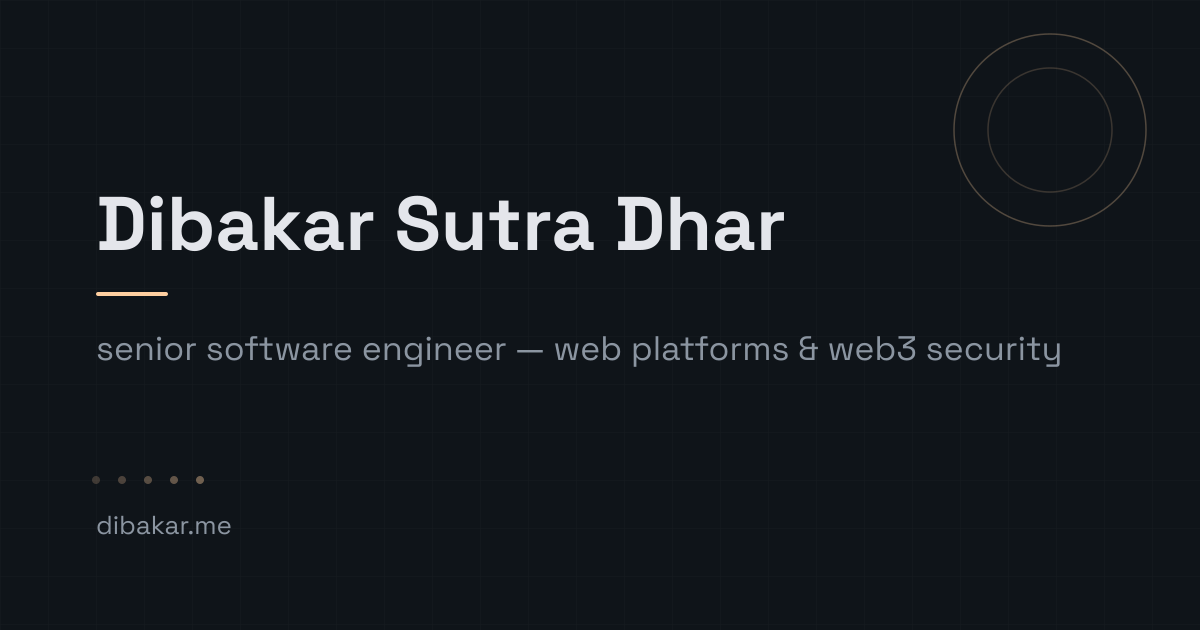
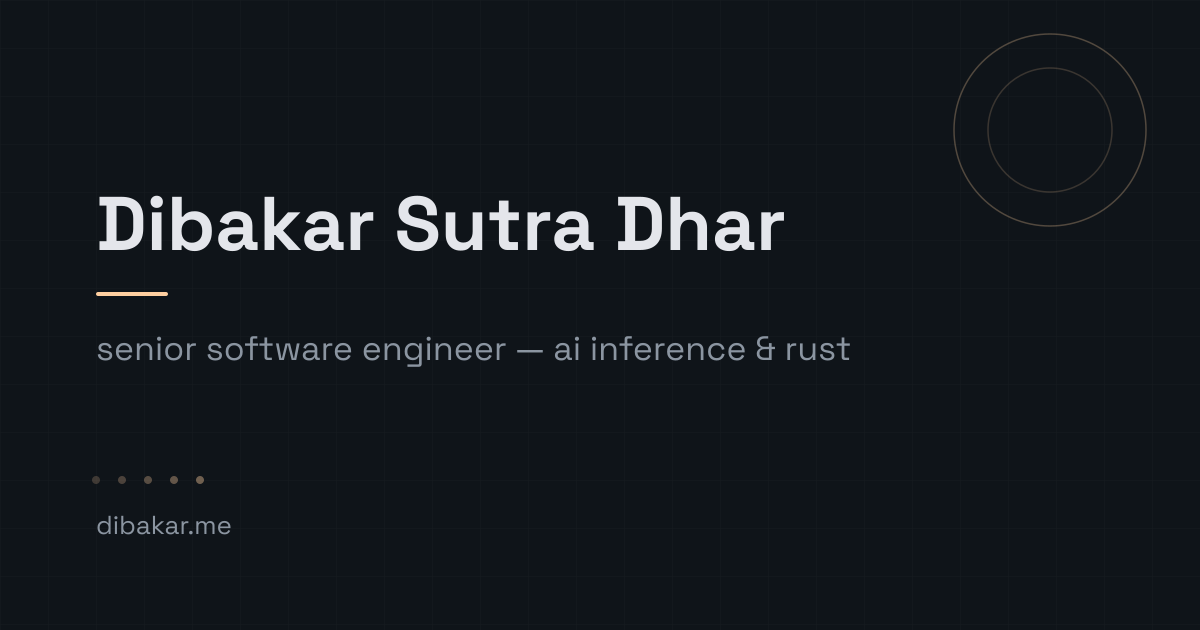
feat: update metadata and artwork to reflect focus on AI inference and distributed systems

Changed region(s): [[0.4625, 0.5429, 0.8942, 0.573]]

diff --git a/app/layout.tsx b/app/layout.tsx
@@ -9,7 +9,7 @@ export const metadata: Metadata = {
 		template: `%s | ${SITE_TITLE}`
 	},
 	description:
-		'Senior software engineer building web platforms and securing web3 systems. Writing about software engineering, web3, and web development.',
+		'Senior software engineer building ai inference and distributed systems. Writing about software engineering, web3, and ai engineering.',
 	alternates: { canonical: '/' },
 	icons: {
 		icon: [
@@ -24,7 +24,7 @@ export const metadata: Metadata = {
 		url: SITE_URL,
 		title: `${SITE_TITLE} — Senior Software Engineer`,
 		description:
-			'Senior software engineer building web platforms and securing web3 systems.',
+			'Senior software engineer building ai inference and distributed systems. Writing about software engineering, web3, and ai engineering.',
 		images: [{ url: '/images/og-card.png', width: 1200, height: 630 }]
 	},
 	twitter: { card: 'summary_large_image' }

diff --git a/app/about/page.tsx b/app/about/page.tsx
@@ -8,13 +8,13 @@ import { SITE_ROLE, SITE_TITLE } from '@/lib/site';
 export const metadata: Metadata = {
 	title: 'About',
 	description:
-		'Dibakar Sutra Dhar — senior software engineer in Dhaka, Bangladesh, building web platforms and securing web3 systems.',
+		'Dibakar Sutra Dhar — senior software engineer in Dhaka, Bangladesh, building ai inference and distributed systems.',
 	alternates: { canonical: '/about' },
 	openGraph: {
 		url: '/about',
 		title: 'About | Dibakar Sutra Dhar',
 		description:
-			'Dibakar Sutra Dhar — senior software engineer in Dhaka, Bangladesh, building web platforms and securing web3 systems.',
+			'Dibakar Sutra Dhar — senior software engineer in Dhaka, Bangladesh, building ai inference and distributed systems.',
 		images: ['/images/og-card.png']
 	},
 	twitter: { card: 'summary_large_image' }
